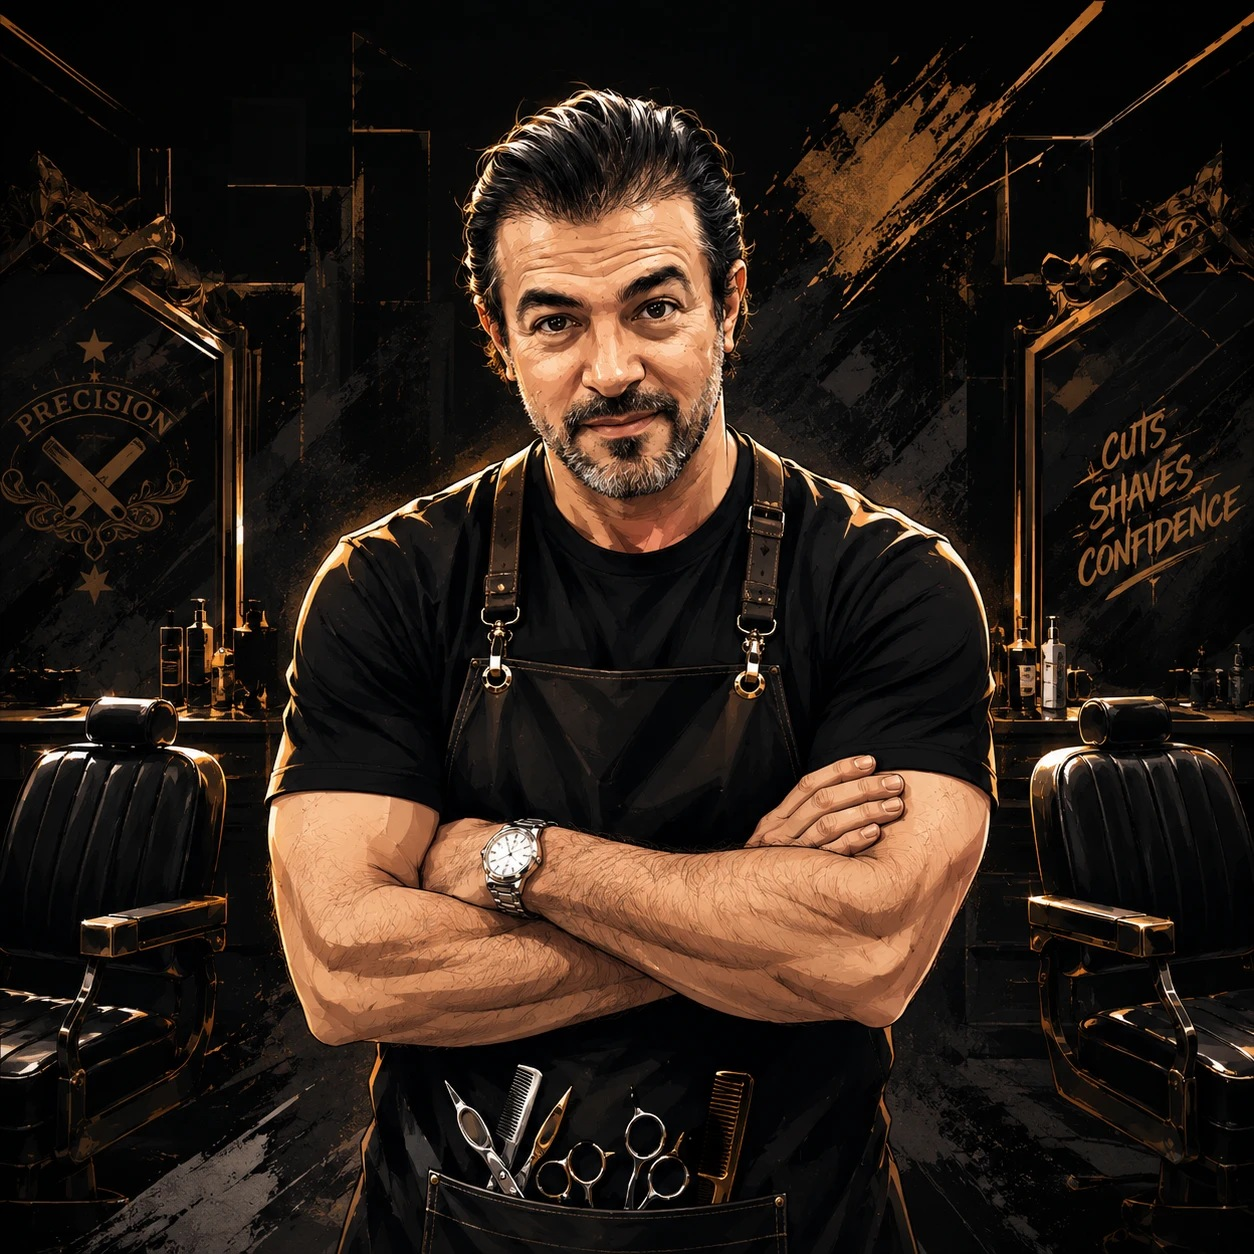
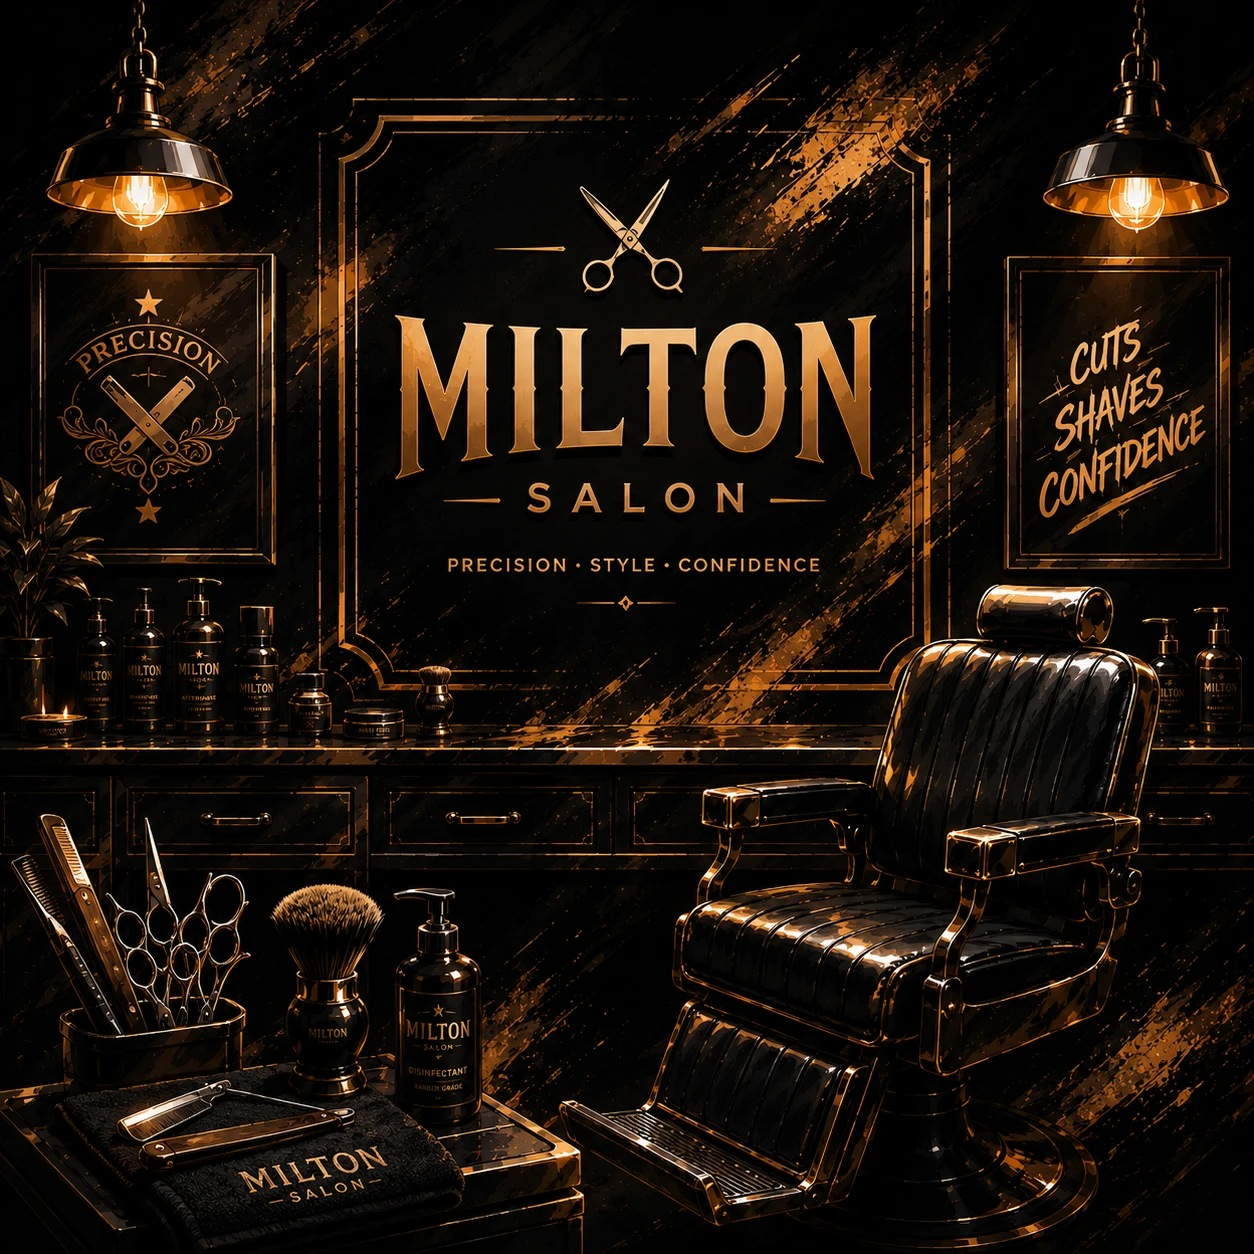
Replace hero image with new interior shop illustration

diff --git a/index.html b/index.html
@@ -362,7 +362,7 @@ footer{padding:64px 0 32px;}
       </div>
     </div>
     <div class="hero-photo-frame">
-      <img src="assets/hero-barbershop.jpg" alt="Illustrated portrait of Milton Salon's master barber in the shop, Alpharetta, GA" fetchpriority="high">
+      <img src="assets/hero-barbershop.jpg" alt="Illustrated interior of Milton Salon and Barber Shop, Alpharetta, GA" fetchpriority="high">
       <div class="hero-float">
         <div class="hero-card">
           <div class="avatar-stack">